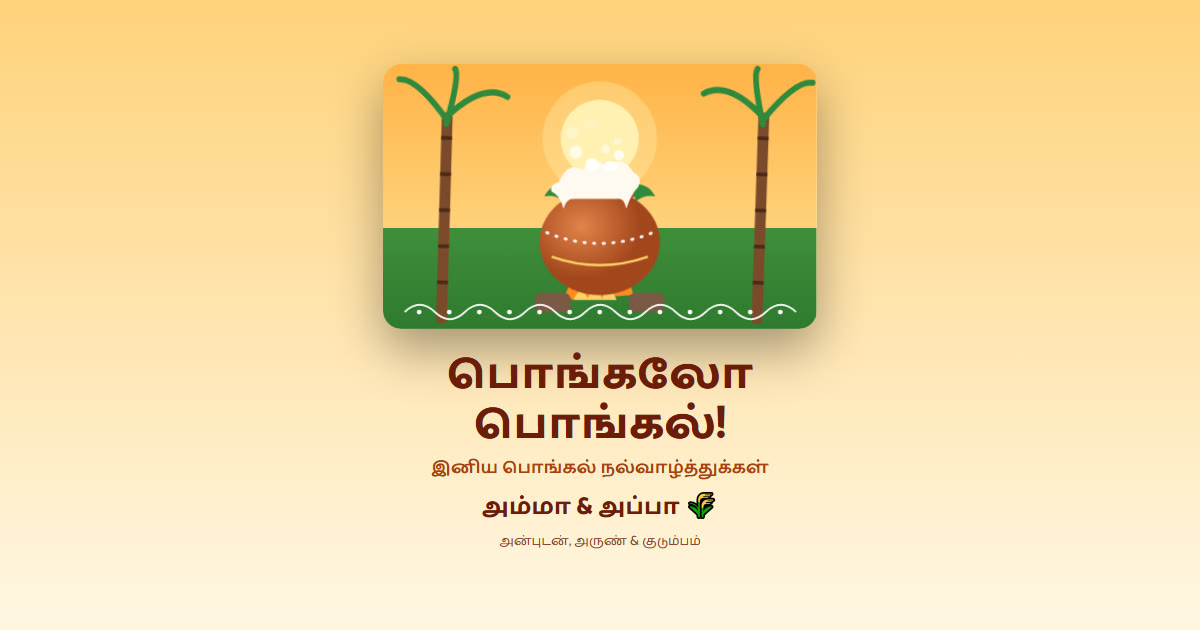
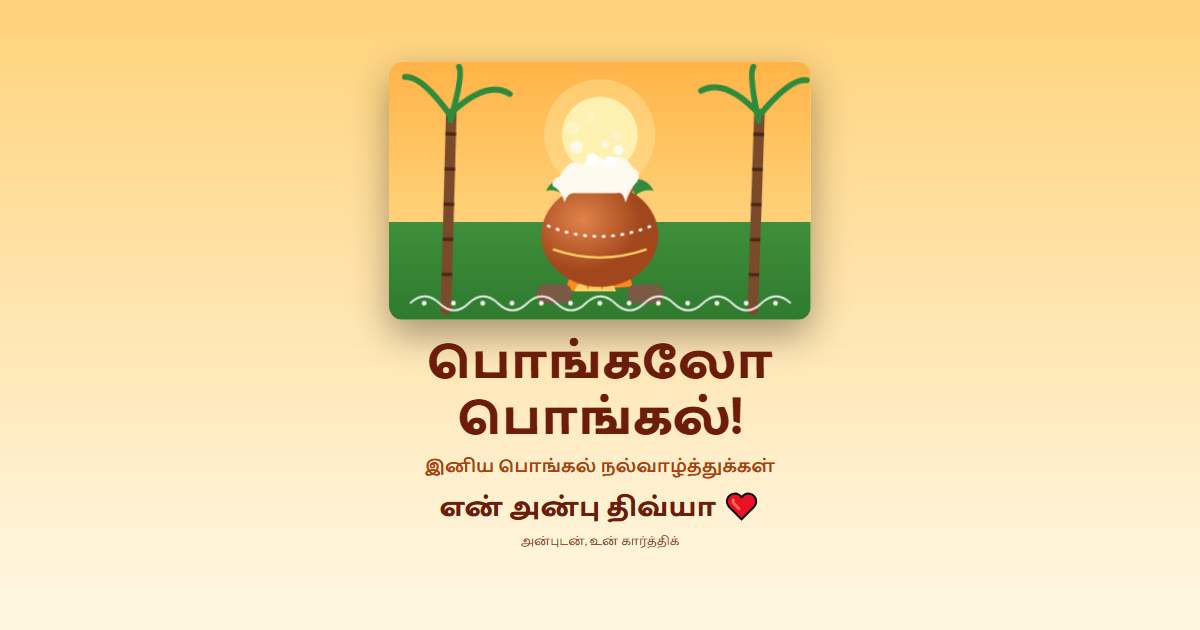
Couple wish with HD photos and a gallery
All 3 demos are now couple wishes: new HD couple photos (Mixkit free
licence) in the memories section, a new 6-photo HD gallery, updated
letters and text, and a fresh share image. Removed the old family
photos.

diff --git a/index.html b/index.html
@@ -3,13 +3,13 @@
 <head>
 <meta charset="utf-8">
 <meta name="viewport" content="width=device-width, initial-scale=1, viewport-fit=cover">
-<title>இனிய பொங்கல் நல்வாழ்த்துக்கள், அம்மா & அப்பா 🌾</title>
-<meta name="description" content="A Pongal wish for Amma and Appa, in Tamil and English. Tap to open.">
+<title>இனிய பொங்கல் நல்வாழ்த்துக்கள், திவ்யா ❤</title>
+<meta name="description" content="A Pongal surprise for Divya from Karthik, in Tamil and English. Tap to open.">
 <meta name="robots" content="noindex, nofollow">
 <meta name="theme-color" content="#ff9a3c">
 <meta property="og:type" content="website">
-<meta property="og:title" content="இனிய பொங்கல் நல்வாழ்த்துக்கள், அம்மா & அப்பா 🌾">
-<meta property="og:description" content="A Pongal wish for Amma and Appa, in Tamil and English. Tap to open.">
+<meta property="og:title" content="இனிய பொங்கல் நல்வாழ்த்துக்கள், திவ்யா ❤">
+<meta property="og:description" content="A Pongal surprise for Divya from Karthik, in Tamil and English. Tap to open.">
 <meta property="og:url" content="https://raymelz75.github.io/pongal-wish/">
 <meta property="og:image" content="https://raymelz75.github.io/pongal-wish/images/og.jpg">
 <meta property="og:image:width" content="1200">
@@ -132,8 +132,8 @@ body.en{font-family:Poppins,system-ui,sans-serif}
 .day p{font-size:.88rem;opacity:.85;margin-top:6px;line-height:1.45}
 .day:nth-child(2){border-top-color:var(--gold)}.day:nth-child(3){border-top-color:var(--leaf)}.day:nth-child(4){border-top-color:#d6304f}
 #memories{background:linear-gradient(180deg,#fff6e0,#ffe2a8)}
-#memories .pol img{aspect-ratio:4/3}
-#memories .polaroids{grid-template-columns:1fr}
+#memories .pol figcaption{font-family:Catamaran,"Noto Sans Tamil","Nirmala UI",sans-serif;font-size:1rem;font-weight:700;line-height:1.35}
+body.en #memories .pol figcaption{font-family:"Great Vibes",cursive;font-size:1.4rem;font-weight:400;line-height:1.2}
 #letter{background:#ffe2a8}
 #letter .letter{background:#fffdf6;font-family:inherit}
 #final{background:linear-gradient(180deg,#ffe2a8,#ffb347);text-align:center}
@@ -147,16 +147,16 @@ body.en{font-family:Poppins,system-ui,sans-serif}
 #gallery{background:#ffe2a8}
 #gallery .gallery figure{box-shadow:0 14px 34px rgba(107,29,10,.2)}
 .credit{color:var(--mar)}
-@media (min-width:900px){.kolam{width:280px;height:280px}#intro .who{font-size:3.4rem}#intro .msg{font-size:1.5rem}#hero{padding-top:100px}#hero .shout{font-size:5.2rem}#hero .wish{font-size:1.9rem}#hero .who{font-size:2.8rem}#hero .from{font-size:1.25rem}.days{grid-template-columns:repeat(4,1fr);gap:22px}.day{padding:26px 18px}.day b{font-size:2.6rem}.day h3{font-size:1.3rem}.day p{font-size:1rem}#memories .polaroids{grid-template-columns:1fr 1fr;gap:34px}#final h2{font-size:4.4rem}#final .proverb{font-size:1.6rem}.lang{top:20px;left:20px}.lang button{font-size:1rem;padding:9px 16px}}
+@media (min-width:900px){.kolam{width:280px;height:280px}#intro .who{font-size:3.4rem}#intro .msg{font-size:1.5rem}#hero{padding-top:100px}#hero .shout{font-size:5.2rem}#hero .wish{font-size:1.9rem}#hero .who{font-size:2.8rem}#hero .from{font-size:1.25rem}.days{grid-template-columns:repeat(4,1fr);gap:22px}.day{padding:26px 18px}.day b{font-size:2.6rem}.day h3{font-size:1.3rem}.day p{font-size:1rem}#final h2{font-size:4.4rem}#final .proverb{font-size:1.6rem}.lang{top:20px;left:20px}.lang button{font-size:1rem;padding:9px 16px}}
 </style>
 </head>
 <body>
 <div id="intro" role="button" tabindex="0" aria-label="Open your Pongal wish">
   <div>
     <svg class="kolam" viewBox="0 0 240 240" aria-hidden="true"><g fill="none" stroke="#fff" stroke-width="2.6" stroke-linecap="round"><path class="k-line" d="M40 60 Q60 34 80 60 Q60 86 40 60" style="animation-delay:0.00s"/><path class="k-line" d="M80 60 Q100 34 120 60 Q100 86 80 60" style="animation-delay:0.12s"/><path class="k-line" d="M120 60 Q140 34 160 60 Q140 86 120 60" style="animation-delay:0.24s"/><path class="k-line" d="M160 60 Q180 34 200 60 Q180 86 160 60" style="animation-delay:0.36s"/><path class="k-line" d="M40 100 Q60 74 80 100 Q60 126 40 100" style="animation-delay:0.48s"/><path class="k-line" d="M80 100 Q100 74 120 100 Q100 126 80 100" style="animation-delay:0.60s"/><path class="k-line" d="M120 100 Q140 74 160 100 Q140 126 120 100" style="animation-delay:0.72s"/><path class="k-line" d="M160 100 Q180 74 200 100 Q180 126 160 100" style="animation-delay:0.84s"/><path class="k-line" d="M40 140 Q60 114 80 140 Q60 166 40 140" style="animation-delay:0.96s"/><path class="k-line" d="M80 140 Q100 114 120 140 Q100 166 80 140" style="animation-delay:1.08s"/><path class="k-line" d="M120 140 Q140 114 160 140 Q140 166 120 140" style="animation-delay:1.20s"/><path class="k-line" d="M160 140 Q180 114 200 140 Q180 166 160 140" style="animation-delay:1.32s"/><path class="k-line" d="M40 180 Q60 154 80 180 Q60 206 40 180" style="animation-delay:1.44s"/><path class="k-line" d="M80 180 Q100 154 120 180 Q100 206 80 180" style="animation-delay:1.56s"/><path class="k-line" d="M120 180 Q140 154 160 180 Q140 206 120 180" style="animation-delay:1.68s"/><path class="k-line" d="M160 180 Q180 154 200 180 Q180 206 160 180" style="animation-delay:1.80s"/><circle class="k-line" cx="120" cy="120" r="108" style="animation-delay:2s"/></g><circle cx="40" cy="40" r="3.4" fill="#fff"/><circle cx="80" cy="40" r="3.4" fill="#fff"/><circle cx="120" cy="40" r="3.4" fill="#fff"/><circle cx="160" cy="40" r="3.4" fill="#fff"/><circle cx="200" cy="40" r="3.4" fill="#fff"/><circle cx="40" cy="80" r="3.4" fill="#fff"/><circle cx="80" cy="80" r="3.4" fill="#fff"/><circle cx="120" cy="80" r="3.4" fill="#fff"/><circle cx="160" cy="80" r="3.4" fill="#fff"/><circle cx="200" cy="80" r="3.4" fill="#fff"/><circle cx="40" cy="120" r="3.4" fill="#fff"/><circle cx="80" cy="120" r="3.4" fill="#fff"/><circle cx="120" cy="120" r="3.4" fill="#fff"/><circle cx="160" cy="120" r="3.4" fill="#fff"/><circle cx="200" cy="120" r="3.4" fill="#fff"/><circle cx="40" cy="160" r="3.4" fill="#fff"/><circle cx="80" cy="160" r="3.4" fill="#fff"/><circle cx="120" cy="160" r="3.4" fill="#fff"/><circle cx="160" cy="160" r="3.4" fill="#fff"/><circle cx="200" cy="160" r="3.4" fill="#fff"/><circle cx="40" cy="200" r="3.4" fill="#fff"/><circle cx="80" cy="200" r="3.4" fill="#fff"/><circle cx="120" cy="200" r="3.4" fill="#fff"/><circle cx="160" cy="200" r="3.4" fill="#fff"/><circle cx="200" cy="200" r="3.4" fill="#fff"/></svg>
-    <p class="who"><span class="ta-en" data-en="Amma &amp;amp; Appa,">அம்மா &amp; அப்பா,</span></p>
-    <p class="msg"><span class="ta-en" data-en="a Pongal wish, just for you 🌾">உங்களுக்காக ஒரு பொங்கல் வாழ்த்து 🌾</span></p>
-    <span class="tap"><span class="ta-en" data-en="Tap to open">திறந்து பாருங்கள்</span></span>
+    <p class="who"><span class="ta-en" data-en="Divya,">திவ்யா,</span></p>
+    <p class="msg"><span class="ta-en" data-en="a Pongal wish, just for you 🌾">உனக்காக ஒரு பொங்கல் வாழ்த்து 🌾</span></p>
+    <span class="tap"><span class="ta-en" data-en="Tap to open ❤">திறந்து பார் ❤</span></span>
   </div>
 </div>
 <div class="lang" role="group" aria-label="Language"><button type="button" class="on" data-l="ta">தமிழ்</button><button type="button" data-l="en">English</button></div>
@@ -182,8 +182,8 @@ body.en{font-family:Poppins,system-ui,sans-serif}
 </svg></div>
   <h1 class="shout"><span class="ta-en" data-en="Pongalo Pongal!">பொங்கலோ பொங்கல்!</span></h1>
   <p class="wish"><span class="ta-en" data-en="Happy Pongal">இனிய பொங்கல் நல்வாழ்த்துக்கள்</span></p>
-  <p class="who"><span class="ta-en" data-en="Amma &amp;amp; Appa 🌾">அம்மா &amp; அப்பா 🌾</span></p>
-  <p class="from"><span class="ta-en" data-en="With love, Arun &amp;amp; family">அன்புடன், அருண் &amp; குடும்பம்</span></p>
+  <p class="who"><span class="ta-en" data-en="My dear Divya ❤">என் அன்பு திவ்யா ❤</span></p>
+  <p class="from"><span class="ta-en" data-en="With love, your Karthik">அன்புடன், உன் கார்த்திக்</span></p>
 </div></section>
 <section id="days"><div class="wrap">
   <h2 class="sec rv"><span class="ta-en" data-en="The four days of Pongal">பொங்கல் நான்கு நாட்கள்</span></h2>
@@ -196,18 +196,20 @@ body.en{font-family:Poppins,system-ui,sans-serif}
   </div>
 </div></section>
 <section id="memories"><div class="wrap">
-  <h2 class="sec rv"><span class="ta-en" data-en="Our family memories">நம் குடும்ப நினைவுகள்</span></h2>
-  <p class="sub rv"><span class="ta-en" data-en="Tap a photo to see it bigger">படத்தைத் தொட்டுப் பெரிதாகப் பாருங்கள்</span></p>
-  <div class="polaroids">
-    <figure class="pol rv"><img src="images/family-1.webp" alt="Amma with her children in the fields" width="800" height="600" loading="lazy"><figcaption><span class="ta-en" data-en="Amma's love 💛">அம்மாவின் அன்பு 💛</span></figcaption></figure>
-    <figure class="pol rv"><img src="images/family-2.webp" alt="The family together on a motorbike" width="800" height="600" loading="lazy"><figcaption><span class="ta-en" data-en="Our family ride 🏍">நம் குடும்பப் பயணம் 🏍</span></figcaption></figure>
-  </div>
+  <h2 class="sec rv"><span class="ta-en" data-en="Our memories">நம் நினைவுகள்</span></h2>
+  <p class="sub rv"><span class="ta-en" data-en="Tap a photo to see it bigger">படத்தைத் தொட்டுப் பெரிதாகப் பார்</span></p>
+  <div class="polaroids"><figure class="pol rv"><img src="images/love-1.webp" alt="Couple holding hands in a golden field" width="640" height="800" loading="lazy"><figcaption><span class="ta-en" data-en="Our walk through the fields 🌾">வயல் வெளியில் நம் நடை 🌾</span></figcaption></figure><figure class="pol rv"><img src="images/love-2.webp" alt="Couple at sunset with their dog" width="640" height="800" loading="lazy"><figcaption><span class="ta-en" data-en="Our sunset together 🌅">நாம் பார்த்த சூரிய அஸ்தமனம் 🌅</span></figcaption></figure><figure class="pol rv"><img src="images/love-3.webp" alt="Couple relaxing on the grass in a forest" width="640" height="800" loading="lazy"><figcaption><span class="ta-en" data-en="Us, close to nature 🌳">இயற்கையின் மடியில் நாம் 🌳</span></figcaption></figure><figure class="pol rv"><img src="images/love-4.webp" alt="Couple holding hands with a ring" width="640" height="800" loading="lazy"><figcaption><span class="ta-en" data-en="Your hand in mine 💍">என் கையில் உன் கை 💍</span></figcaption></figure></div>
 </div></section>
-
+<section id="gallery"><div class="wrap">
+  <h2 class="sec rv"><span class="ta-en" data-en="Our gallery 📸">நம் படங்கள் 📸</span></h2>
+  <p class="sub rv"><span class="ta-en" data-en="Tap any photo to see it bigger">படத்தைத் தொட்டுப் பெரிதாகப் பார்</span></p>
+  <div class="gallery"><figure class="rv"><img src="images/gallery-1.webp" data-full="images/gallery-1.webp" alt="Couple holding hands at sunset" width="1600" height="900" loading="lazy"></figure><figure class="rv"><img src="images/gallery-2.webp" data-full="images/gallery-2.webp" alt="Couple watching the sunset" width="1600" height="900" loading="lazy"></figure><figure class="rv"><img src="images/gallery-3.webp" data-full="images/gallery-3.webp" alt="Couple embracing in a forest" width="1600" height="900" loading="lazy"></figure><figure class="rv"><img src="images/gallery-4.webp" data-full="images/gallery-4.webp" alt="Happy newlywed couple" width="1600" height="900" loading="lazy"></figure><figure class="rv"><img src="images/gallery-5.webp" data-full="images/gallery-5.webp" alt="Couple walking through a lavender field" width="1600" height="900" loading="lazy"></figure><figure class="rv"><img src="images/gallery-6.webp" data-full="images/gallery-6.webp" alt="Couple having fun with a polaroid camera" width="1600" height="900" loading="lazy"></figure></div>
+  <p class="credit">Photos: Mixkit (free licence)</p>
+</div></section>
 <section id="letter"><div class="wrap">
-  <h2 class="sec rv"><span class="ta-en" data-en="A letter for you">உங்களுக்கு ஒரு கடிதம்</span></h2>
-  <p class="sub rv"><span class="ta-en" data-en="From our hearts">எங்கள் மனதிலிருந்து</span></p>
-  <div class="letter" id="pgLetter" data-text="அன்புள்ள அம்மா, அப்பா,&#10;&#10;உங்கள் அன்பும் உழைப்பும் தான் எங்கள் வாழ்க்கையின் இனிப்பு.&#10;&#10;சர்க்கரைப் பொங்கல் போல உங்கள் வாழ்வும் என்றும் இனிமையாக இருக்கட்டும்.&#10;&#10;இந்த தை மாதம் உங்களுக்கு நல்ல ஆரோக்கியமும் மகிழ்ச்சியும் கொண்டு வரட்டும்.&#10;&#10;தை பிறந்தால் வழி பிறக்கும்! 🌾&#10;&#10;அன்புடன்,&#10;அருண் &amp; குடும்பம்" data-text-ta="அன்புள்ள அம்மா, அப்பா,&#10;&#10;உங்கள் அன்பும் உழைப்பும் தான் எங்கள் வாழ்க்கையின் இனிப்பு.&#10;&#10;சர்க்கரைப் பொங்கல் போல உங்கள் வாழ்வும் என்றும் இனிமையாக இருக்கட்டும்.&#10;&#10;இந்த தை மாதம் உங்களுக்கு நல்ல ஆரோக்கியமும் மகிழ்ச்சியும் கொண்டு வரட்டும்.&#10;&#10;தை பிறந்தால் வழி பிறக்கும்! 🌾&#10;&#10;அன்புடன்,&#10;அருண் &amp; குடும்பம்" data-text-en="Dear Amma and Appa,&#10;&#10;Your love and hard work are the sweetness of our life.&#10;&#10;May your life always be as sweet as sakkarai pongal.&#10;&#10;May this Thai month bring you good health and happiness.&#10;&#10;When Thai is born, a new path is born! 🌾&#10;&#10;With love,&#10;Arun &amp; family"><p class="typed"></p><small><span class="ta-en" data-en="Tap to read it all">முழுவதும் படிக்கத் தொடுங்கள்</span></small></div>
+  <h2 class="sec rv"><span class="ta-en" data-en="A letter for you">உனக்கு ஒரு கடிதம்</span></h2>
+  <p class="sub rv"><span class="ta-en" data-en="From my heart">என் மனதிலிருந்து</span></p>
+  <div class="letter" id="pgLetter" data-text="என் அன்பு திவ்யா,&#10;&#10;இந்த தை மாதம் நம் வாழ்வில் புதிய வழிகளைத் திறக்கட்டும்.&#10;&#10;பொங்கல் பொங்குவது போல நம் அன்பும் மகிழ்ச்சியும் என்றும் பொங்கட்டும்.&#10;&#10;நீ என் வாழ்க்கையின் சர்க்கரைப் பொங்கல், அவ்வளவு இனிமையானவள்! ❤&#10;&#10;தை பிறந்தால் வழி பிறக்கும்! 🌾&#10;&#10;என்றும் உன்,&#10;கார்த்திக்" data-text-ta="என் அன்பு திவ்யா,&#10;&#10;இந்த தை மாதம் நம் வாழ்வில் புதிய வழிகளைத் திறக்கட்டும்.&#10;&#10;பொங்கல் பொங்குவது போல நம் அன்பும் மகிழ்ச்சியும் என்றும் பொங்கட்டும்.&#10;&#10;நீ என் வாழ்க்கையின் சர்க்கரைப் பொங்கல், அவ்வளவு இனிமையானவள்! ❤&#10;&#10;தை பிறந்தால் வழி பிறக்கும்! 🌾&#10;&#10;என்றும் உன்,&#10;கார்த்திக்" data-text-en="My dear Divya,&#10;&#10;May this Thai month open new paths in our life.&#10;&#10;Just like the pongal overflowing from the pot, may our love and happiness always overflow.&#10;&#10;You are the sakkarai pongal of my life, so sweet! ❤&#10;&#10;When Thai is born, a new path is born! 🌾&#10;&#10;Forever yours,&#10;Karthik"><p class="typed"></p><small><span class="ta-en" data-en="Tap to read it all">முழுவதும் படிக்கத் தொடு</span></small></div>
 </div></section>
 <section id="final"><div class="wrap">
   <div class="art rv"><svg viewBox="0 0 360 220" role="img" aria-label="Pongal wish illustration: a pongal pot boiling over on a firewood stove with sugarcane and kolam">
@@ -230,10 +232,10 @@ body.en{font-family:Poppins,system-ui,sans-serif}
 </svg></div>
   <h2 class="rv"><span class="ta-en" data-en="Pongalo Pongal! 🎉">பொங்கலோ பொங்கல்! 🎉</span></h2>
   <p class="proverb rv"><span class="ta-en" data-en="When Thai is born, a new path is born">தை பிறந்தால் வழி பிறக்கும்</span></p>
-  <button class="big-btn rv" id="shout"><span class="ta-en" data-en="🎉 Shout Pongalo Pongal!">🎉 பொங்கலோ பொங்கல் சொல்லுங்கள்!</span></button>
+  <button class="big-btn rv" id="shout"><span class="ta-en" data-en="🎉 Shout Pongalo Pongal!">🎉 பொங்கலோ பொங்கல்!</span></button>
 </div></section>
-<p class="foot"><span class="ta-en" data-en="Made with ❤ by Arun &amp;amp; family">அருண் &amp; குடும்பத்தின் அன்புடன் ❤</span><br>A demo wish website by <a href="https://raymelz.com/new-year-christmas-pongal-wishes/?utm_source=demo&utm_medium=wish&utm_campaign=festival&utm_content=pongal" target="_blank" rel="noopener">Raymelz</a></p>
-<a class="demo-bar" href="https://raymelz.com/new-year-christmas-pongal-wishes/?utm_source=demo&utm_medium=wish&utm_campaign=festival&utm_content=pongal" target="_blank" rel="noopener">✨ Demo by <b>Raymelz</b><span class="long"> · Make a Pongal wish</span>, from ₹199 →</a>
+<p class="foot"><span class="ta-en" data-en="Made with ❤ by Karthik, for Divya">திவ்யாவுக்காக, கார்த்திக்கின் அன்புடன் ❤</span><br>A demo wish website by <a href="https://raymelz.com/new-year-christmas-pongal-wishes/?utm_source=demo&utm_medium=wish&utm_campaign=festival&utm_content=pongal" target="_blank" rel="noopener">Raymelz</a></p>
+<a class="demo-bar" href="https://raymelz.com/new-year-christmas-pongal-wishes/?utm_source=demo&utm_medium=wish&utm_campaign=festival&utm_content=pongal" target="_blank" rel="noopener">✨ Demo by <b>Raymelz</b><span class="long"> · Pongal wish for your love</span>, from ₹199 →</a>
 <audio id="song" src="music/song.mp3" preload="none" loop></audio>
 <div class="lb" role="dialog" aria-label="Photo"><img alt=""></div>
 <script>
